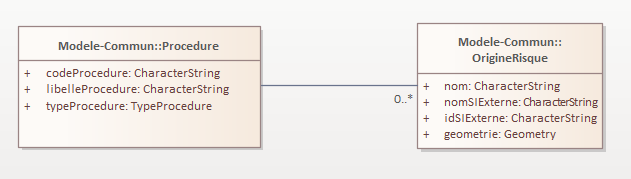
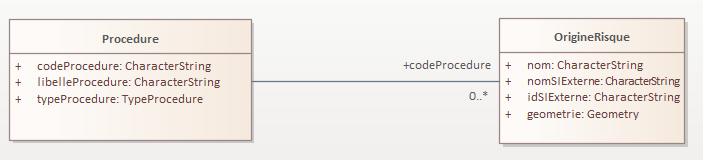
corrections UML et associations OrigineRisque

Changed region(s): [[0.0, 0.0938, 0.9937, 0.9375]]

diff --git a/standards/Geostandards-risques-commun/Document.md b/standards/Geostandards-risques-commun/Document.md
@@ -719,16 +719,11 @@ Le tableau suivant liste les valeurs possibles permettant de désigner un réfé
 
 | Nom de la propriété | Définition | Type | Valeurs possibles | Contraintes |
 |-|-|-|-|-|
+| codeProcedure | Identifiant de la procédure pour laquelle l'objet origine du risque a été rapporté. Ce champ permet de faire le lien avec l'objet correspondant de la classe [Procedure](#classe-dobjets-procedure) | CharacterString | La valeur de ce champ doit aussi exister comme valeur de la propriété codeProcedure d'un objet de la classe [Procedure](#classe-dobjets-procedure) | 1..1 |
 | idRefExterne | Identifiant de l'objet dans le référentiel externe d'où il est extrait | CharacterString | Le formalisme de l'identifiant est déterminé par les spécifications du référentiel externe. | 1..1 | 
 | refExterne | Référentiel externe d'où est extrait l'objet. | CharacterString | Saisie Libre | 1..1 | 
 | nom | Nom de l'objet origine du risque. | CharacterString | Saisie libre (si possible en fonction du nom de l'objet dans le référentiel d'où il est extrait). | 1..1 |
 
-
-#### Associations de la classe OrigineRisque
-
-| Nom de l'association | Type | Définition | Classe de départ | Classe d'arrivée |
-|-|-|-|-|-|
-| **est engendré par** | Association | Relation sémantique permettant d'associer une procédure avec un objet origine du risque qui la motive. | [Procedure](#classe-dobjets-procedure) (1..1) |  [OrigineRisque](#classe-dobjets-originerisque) (0..\*) |
 
 
 ### Thématique Enjeux
@@ -843,12 +838,6 @@ Elle accessible dans le [Système de publication de registres pour INSPIRE](http
 | libelleZoneReglement | Libellé correspondant au code de la zone dans le cadre du réglement qui s'applique. La définition du libellé associé au code est propre au réglement qui s'applique dans le cadre de la procédure. Ce réglement doit être référencé dans les métadonnées qui accompagnent le jeu de données et aussi faire partie des [références internet](#classe-dobjets-referenceinternet) associées à la classe [Procédure](#classe-dobjets-procedure) | CharacterString | Celles définies dans le réglement associé | 1..1 |
 | typeReglement | Type de réglement caractérisant la nature de la réglementation sur la zone selon le réglement concerné. Le type de valeur pour cet attribut sera spécialisé en fonction du type de procédure. | CharacterString | A définir en fonction du type de procédure | 1..1 |
 
-
-#### Associations de l'interface ZoneReglementaire
-
-| Nom de l'association | Type | Définition | Classe de départ | Classe d'arrivée |
-|-|-|-|-|-|
-| **est déterminé par** | Association | Relation sémantique permettant de faire le lien entre une zone d'aléa et des éléments qui ont pu permettre de la calculer, décrits par la classe générique [ElementCaracterisationAlea](#classe-dobjets-elementcaracterisationalea).| [ZoneAlea](#classe-dobjets-zonealea) (0..1) | [ElementCaracterisationAlea](#classe-dobjets-elementcaracterisationalea) (0..\*) |
 
 
 #  Systèmes de référence
